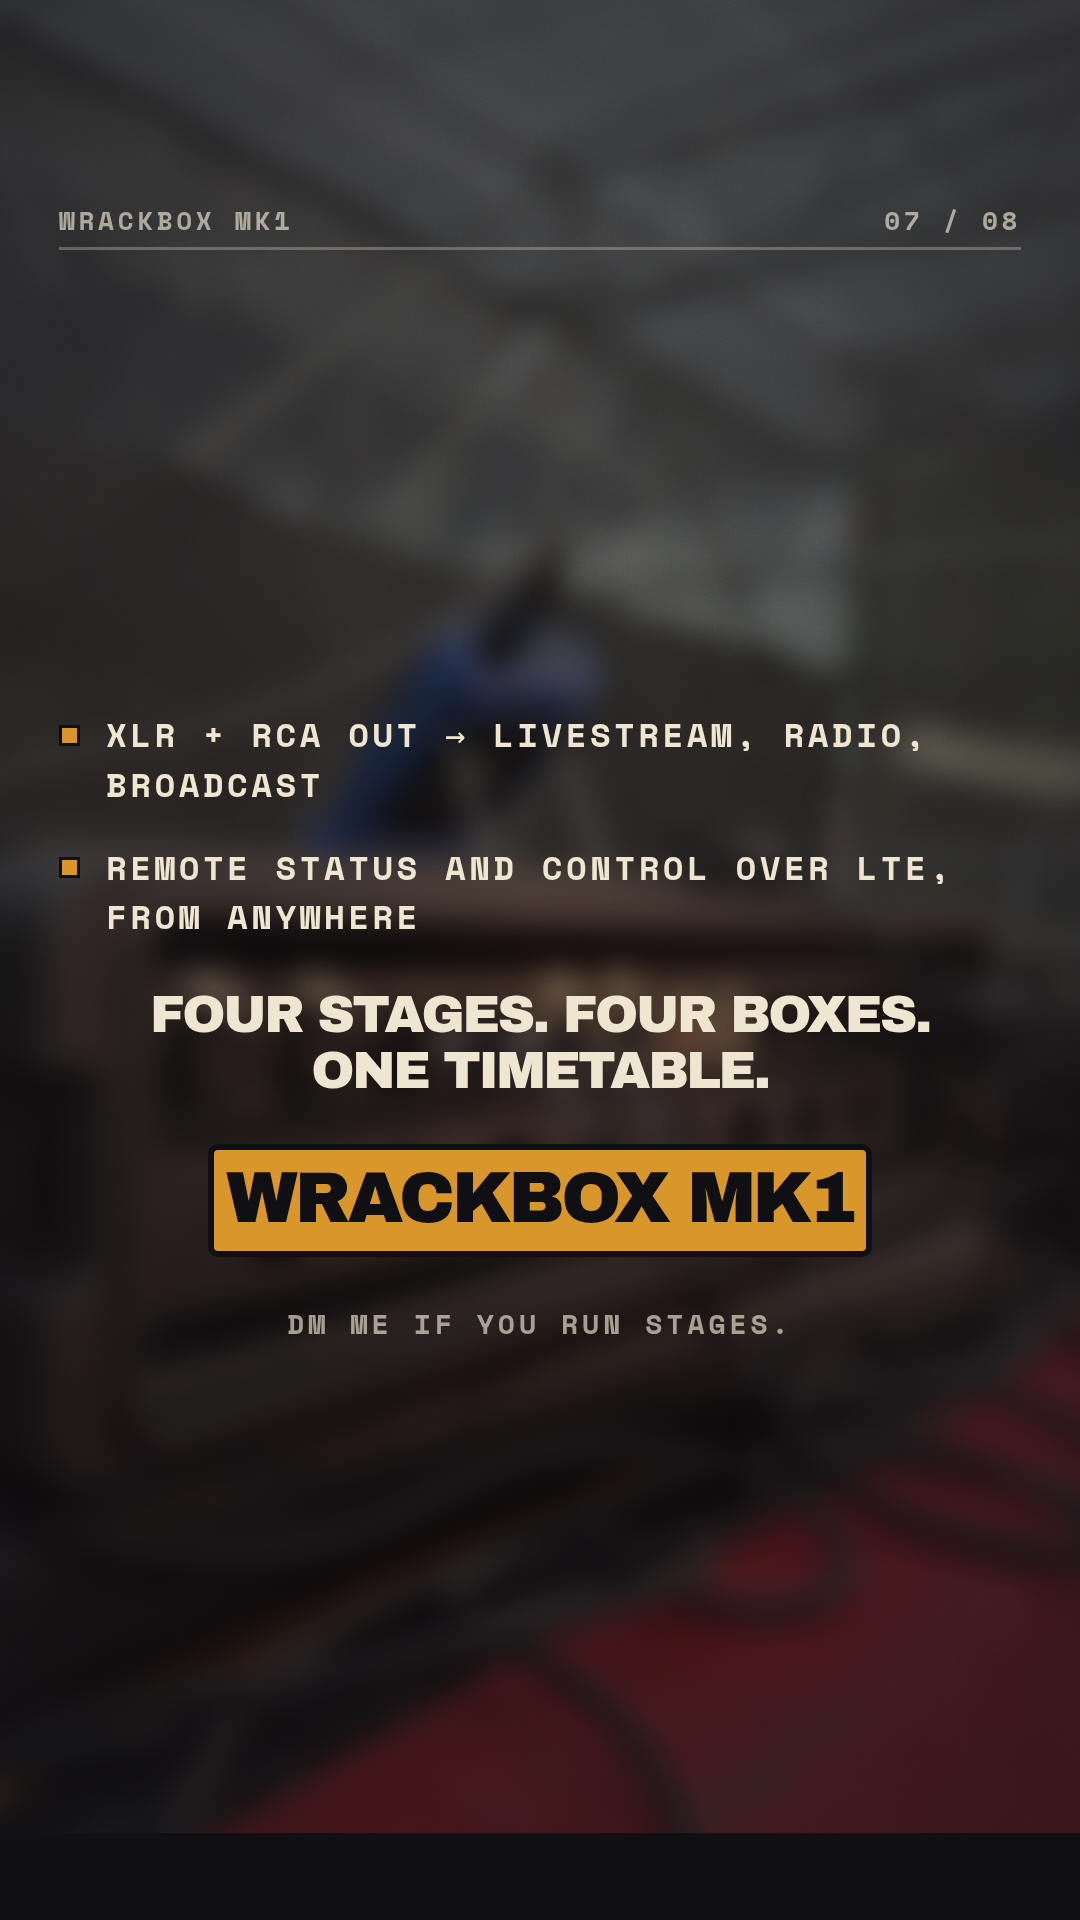
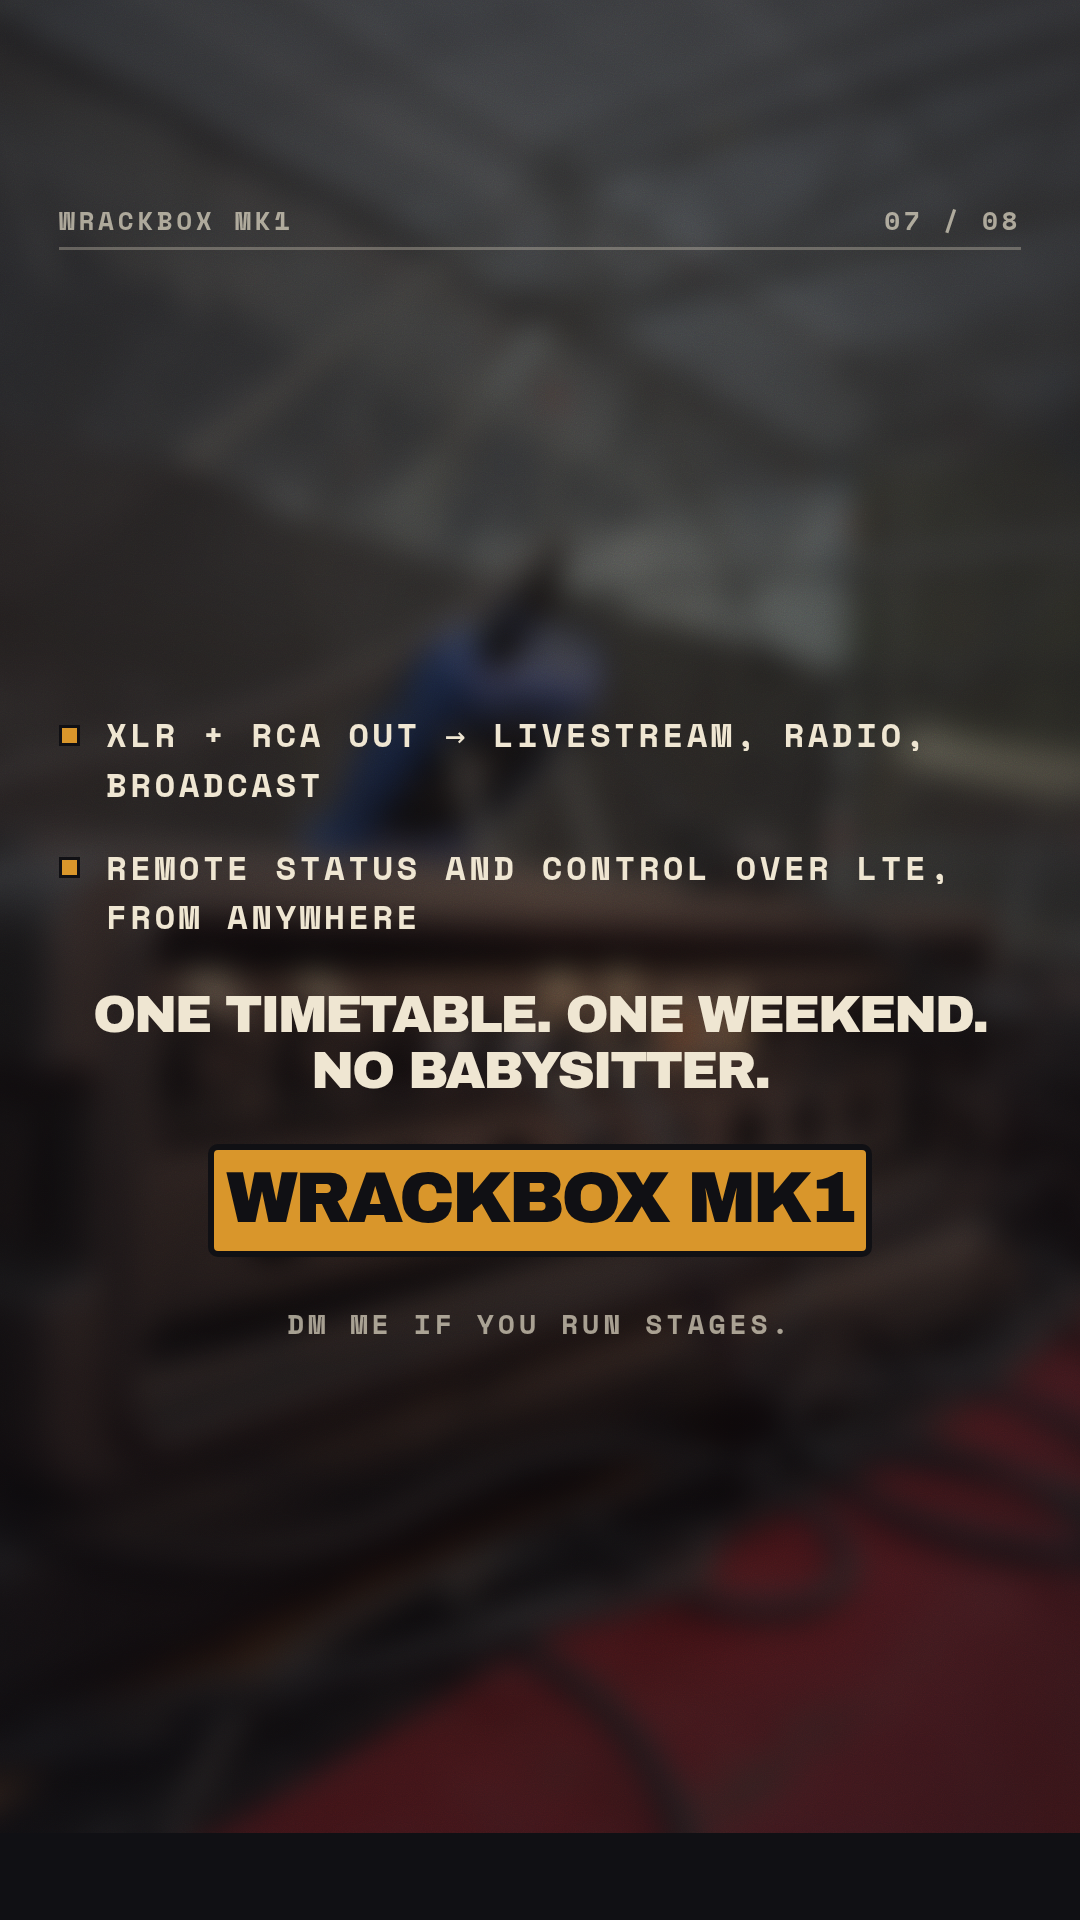
Close on what the box does, not on how many there are
"four stages. four boxes." counts hardware that does not exist yet, and the
count was never the point. The close now names the promise the series has
been making since the second slide: one timetable, one weekend, nobody
babysitting it.

Claude-Session: https://claude.ai/code/session_014PtFkxHhK32uMmnGPQQ2vj

Changed region(s): [[0.0917, 0.5, 0.9167, 0.5938]]

diff --git a/stories/wrackbox/build.py b/stories/wrackbox/build.py
@@ -182,8 +182,8 @@ STORIES = [
                 "remote status and control over LTE, from anywhere",
             ]},
             {"kind": "fett", "size": 52, "lines": [
-                "four stages. four boxes.",
-                "one timetable.",
+                "one timetable. one weekend.",
+                "no babysitter.",
             ]},
             {"kind": "bar", "size": 72, "text": "wrackbox mk1"},
             {"kind": "note", "text": "DM me if you run stages."},
